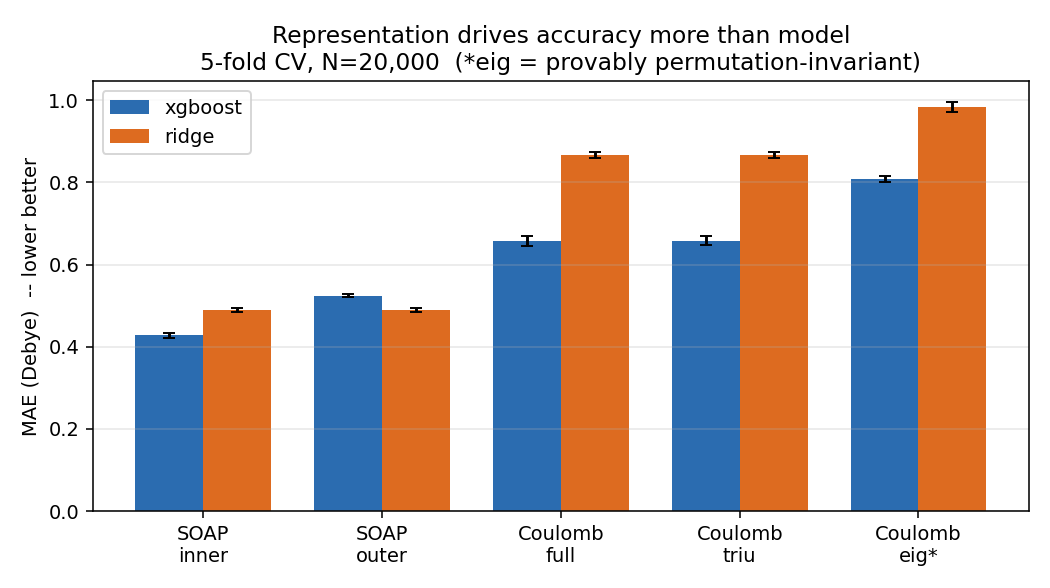
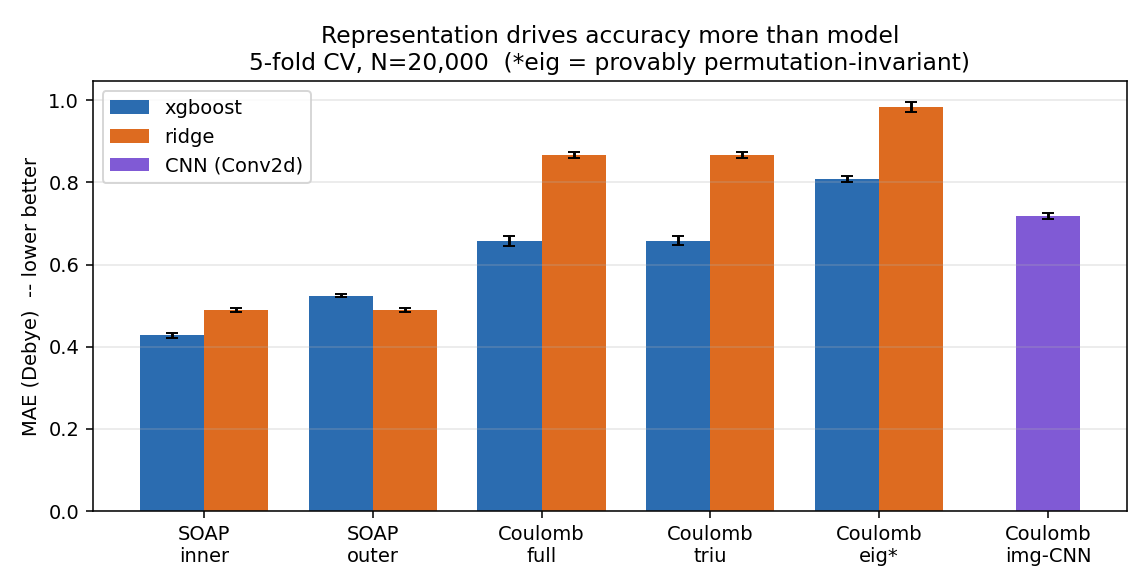
research: add Coulomb-image CNN as a CV'd arm (MAE 0.718)
Evaluate model.py CoulombCNN under the same paired 5-fold protocol (seed=42),
faithful to the original recipe (raw matrix as 1x29x29 image, L1, Adam, early
stop). CV MAE 0.718+/-0.008 (R2 0.547) -- worse than gradient-boosted trees on
the same matrix (0.658), so the Conv2d grid inductive bias hurts; still beats
the permutation-invariant eigenspectrum (0.809), reinforcing that
representational richness beats symmetry. Report table/findings + figure updated.

diff --git a/cnn_cv.py b/cnn_cv.py
@@ -1,0 +1,71 @@
+"""
+Evaluate the Coulomb-image CNN (model.py CoulombCNN) under the SAME 5-fold
+protocol as research_benchmark.py, so it is directly comparable (paired folds,
+seed=42) to the XGBoost/Ridge x representation arms.
+
+Faithful to the original training recipe (train.py): raw Coulomb matrix as a
+1x29x29 image (no feature normalization), L1 loss, Adam lr=1e-3, early stopping
+on the validation fold. Only the split changes: single 80/20 -> 5-fold CV.
+"""
+import json, sys, time
+import numpy as np
+import torch, torch.nn as nn, torch.optim as optim
+sys.path.insert(0, ".")
+from model import CoulombCNN
+
+SEED = 42
+SCRATCH = "/private/tmp/claude-501/-Users-jils-Projects-final-team58/704829af-ad30-4b40-80ae-11a6a90c4807/scratchpad"
+dev = torch.device("mps" if torch.backends.mps.is_available() else "cpu")
+print("device", dev)
+
+d = np.load(f"{SCRATCH}/cm.npz", allow_pickle=True)
+X = d["Xtr"].astype(np.float32)          # (20000,29,29)
+y = d["y"].astype(np.float32)
+N = len(y)
+
+# reproduce sklearn KFold(n_splits=5, shuffle=True, random_state=42) EXACTLY:
+# it permutes indices with the seed, then takes 5 sequential contiguous folds.
+perm = np.random.RandomState(SEED).permutation(N)
+folds = np.array_split(perm, 5)
+
+def run_fold(va_idx):
+    va = va_idx
+    tr = np.setdiff1d(np.arange(N), va)
+    Xt = torch.tensor(X[tr]).unsqueeze(1).to(dev); yt = torch.tensor(y[tr]).unsqueeze(1).to(dev)
+    Xv = torch.tensor(X[va]).unsqueeze(1).to(dev); yv = torch.tensor(y[va]).unsqueeze(1).to(dev)
+    model = CoulombCNN(29).to(dev)
+    opt = optim.Adam(model.parameters(), lr=1e-3); crit = nn.L1Loss()
+    bs, best, patience, wait = 64, float("inf"), 10, 0
+    ntr = len(tr)
+    for epoch in range(100):
+        model.train(); order = torch.randperm(ntr)
+        for i in range(0, ntr, bs):
+            b = order[i:i+bs]
+            opt.zero_grad(); loss = crit(model(Xt[b]), yt[b]); loss.backward(); opt.step()
+        model.eval()
+        with torch.no_grad():
+            p = model(Xv)
+            vmae = torch.mean(torch.abs(p - yv)).item()
+        if vmae < best - 1e-4:
+            best, wait = vmae, 0
+            ss_res = torch.sum((p - yv)**2).item(); ss_tot = torch.sum((yv - yv.mean())**2).item()
+            best_r2 = 1 - ss_res/ss_tot
+        else:
+            wait += 1
+            if wait >= patience: break
+    return best, best_r2
+
+maes, r2s = [], []
+t0 = time.time()
+for k, va in enumerate(folds):
+    m, r = run_fold(va)
+    maes.append(m); r2s.append(r)
+    print(f"fold {k}: MAE {m:.4f}  R2 {r:.4f}  ({time.time()-t0:.0f}s)")
+mae, mstd, r2, r2std = np.mean(maes), np.std(maes), np.mean(r2s), np.std(r2s)
+print(f"\nCNN/coulomb-image  MAE {mae:.4f}+/-{mstd:.4f}  R2 {r2:.4f}+/-{r2std:.4f}")
+
+res = json.load(open("research_results.json"))
+res["benchmark"]["coulomb-image/cnn"] = dict(dim="29x29", mae=float(mae),
+    mae_std=float(mstd), r2=float(r2), r2_std=float(r2std))
+json.dump(res, open("research_results.json", "w"), indent=2)
+print("updated research_results.json")

diff --git a/make_figures.py b/make_figures.py
@@ -11,14 +11,17 @@ os.makedirs("figures", exist_ok=True)
 
 # Fig 1: MAE by representation x model (grouped bars, error bars = fold std)
 reps = ["soap-inner", "soap-outer", "full", "triu", "eig"]
-labels = ["SOAP\ninner", "SOAP\nouter", "Coulomb\nfull", "Coulomb\ntriu", "Coulomb\neig*"]
+labels = ["SOAP\ninner", "SOAP\nouter", "Coulomb\nfull", "Coulomb\ntriu", "Coulomb\neig*", "Coulomb\nimg-CNN"]
 x = np.arange(len(reps)); w = 0.38
-fig, ax = plt.subplots(figsize=(7.5, 4.2))
+fig, ax = plt.subplots(figsize=(8.2, 4.2))
 for i, (m, c) in enumerate([("xgboost", "#2b6cb0"), ("ridge", "#dd6b20")]):
     mae = [b[f"{r}/{m}"]["mae"] for r in reps]
     err = [b[f"{r}/{m}"]["mae_std"] for r in reps]
     ax.bar(x + (i-0.5)*w, mae, w, yerr=err, capsize=3, label=m, color=c)
-ax.set_xticks(x); ax.set_xticklabels(labels)
+cnn = b["coulomb-image/cnn"]
+ax.bar([len(reps)], [cnn["mae"]], w, yerr=[cnn["mae_std"]], capsize=3,
+       label="CNN (Conv2d)", color="#805ad5")
+ax.set_xticks(np.arange(len(labels))); ax.set_xticklabels(labels)
 ax.set_ylabel("MAE (Debye)  -- lower better")
 ax.set_title("Representation drives accuracy more than model\n5-fold CV, N=20,000  (*eig = provably permutation-invariant)")
 ax.legend(); ax.grid(axis="y", alpha=0.3)

diff --git a/REPORT.md b/REPORT.md
@@ -59,6 +59,11 @@ linear baseline, fixed across every representation.
 | Coulomb full | 841 | 0.658 ± 0.012 | 0.591 | 0.866 ± 0.007 | 0.427 |
 | Coulomb triu | 435 | 0.658 ± 0.011 | 0.592 | 0.866 ± 0.008 | 0.423 |
 | Coulomb eig | 29 | 0.809 ± 0.007 | 0.463 | 0.984 ± 0.012 | 0.291 |
+| Coulomb **image → CNN** | 29×29 | 0.718 ± 0.008 (Conv2d) | 0.547 | — | — |
+
+The CNN row treats the Coulomb matrix as a 1-channel 29×29 image (`model.py`
+`CoulombCNN`: two Conv2d+MaxPool blocks → FC), trained faithfully to the
+original recipe (L1 loss, Adam 1e-3, early stopping) under the same 5-fold folds.
 
 ## 4. Findings
 
@@ -78,6 +83,18 @@ that information loss outweighs any benefit of exact symmetry. **Conclusion:
 representational richness and locality — captured by SOAP's local atomic
 environments — drive accuracy, not invariance per se.** This directly refutes
 the intuitive "make it permutation-invariant and it will generalize" hypothesis.
+
+**(2b) The "molecule as image" CNN fails for the *right* reason.** Treating the
+Coulomb matrix as an image and running a Conv2d CNN gives MAE 0.718 — **worse
+than simply feeding the same matrix to gradient-boosted trees (0.658)**, so the
+convolutional inductive bias actively *hurts*. Conv2d assumes **spatial locality**
+(neighbouring pixels relate) and **translation invariance** (a pattern means the
+same anywhere); a Coulomb matrix has neither — its axes are atom indices, so
+adjacent entries are not physically adjacent and a sliding filter is meaningless.
+Yet the CNN still **beats** the permutation-invariant eigenspectrum (0.809):
+even a wrong inductive bias applied to the rich matrix outperforms a
+"correct-invariance" representation that discarded the geometry — reinforcing (1)
+and (2), that representational richness beats symmetry.
 
 **(3) Aggregation matters, and interacts with the model.** SOAP inner vs outer
 pooling: for XGBoost, inner (0.428) clearly beats outer (0.524); for the linear
